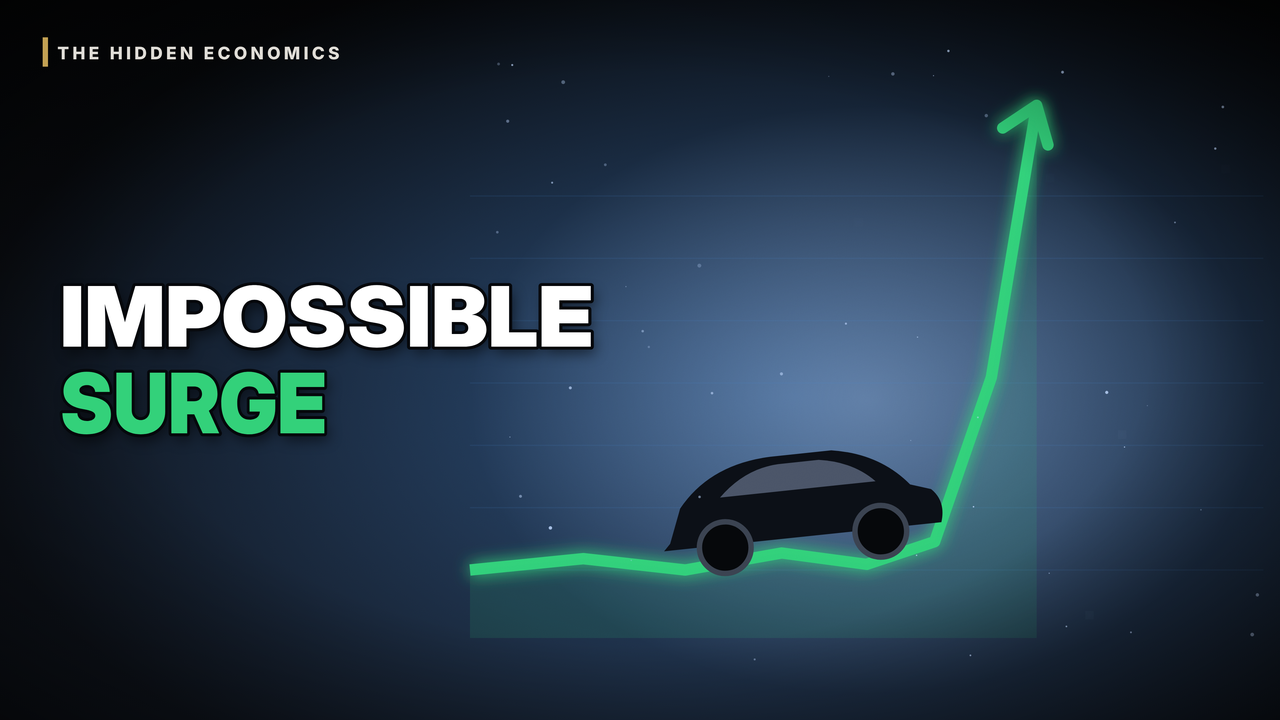
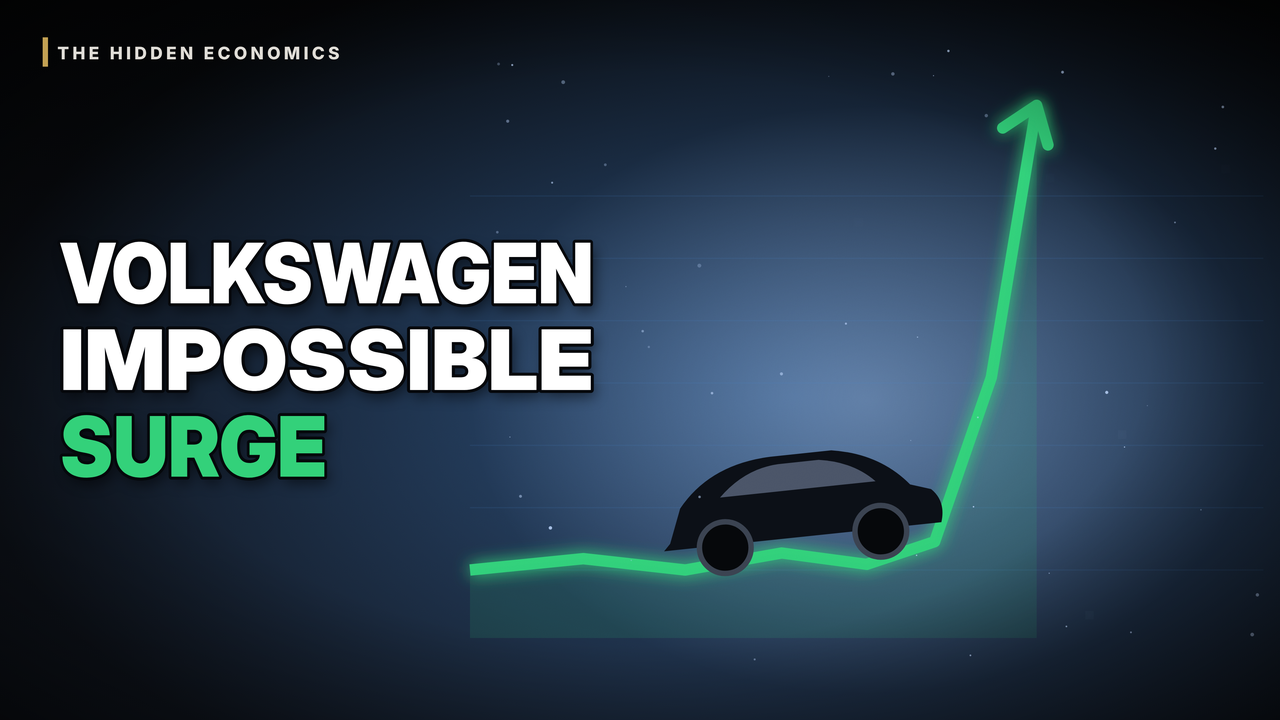
VW thumbnail names Volkswagen; generic hatchback subject
Claude-Session: https://claude.ai/code/session_014jUfN7raNXxtX19HjW58d3

Changed region(s): [[0.0312, 0.3361, 0.4688, 0.6722]]

diff --git a/remotion/src/thumbnails/CinematicThumb.tsx b/remotion/src/thumbnails/CinematicThumb.tsx
@@ -205,6 +205,16 @@ const SUBJECTS: Record<string, SubjectFn> = {
     {Array.from({length: 18}, (_, k) => <path key={k} d={`M 0 0 L ${Math.cos(k * 0.349) * 900} ${Math.sin(k * 0.349) * 900}`} stroke={P.accent} strokeOpacity={0.12} strokeWidth={60} />)}
     <text x={0} y={190} textAnchor="middle" fontFamily={FONT} fontWeight={900} fontSize={o.size ?? 560} fill="url(#bng)" stroke="#2A1A00" strokeWidth={18} paintOrder="stroke" filter="url(#glow)">{o.label || '#1'}</text>
   </g>,
+  /** A generic compact hatchback, side view, rim-lit (no real model's design, no badge). */
+  hatch: (o, P) => <g transform={`translate(${o.x} ${o.y}) scale(${o.s * (o.flip ? -1 : 1)} ${o.s})`}>
+    <defs><linearGradient id="hb" x1="0" y1="0" x2="0" y2="1"><stop offset="0" stopColor={o.body || '#C9D2DE'} /><stop offset="1" stopColor="#3A4250" /></linearGradient></defs>
+    <ellipse cx={0} cy={118} rx={420} ry={26} fill="#000" opacity={0.6} />
+    <path d="M -400 80 L -390 20 Q -380 -10 -330 -20 L -170 -40 L -60 -150 Q -30 -170 20 -170 L 210 -170 Q 260 -168 290 -120 L 360 -30 Q 400 -20 405 20 L 410 80 Q 410 96 390 96 L -385 96 Q -402 96 -400 80 Z" fill="url(#hb)" stroke={P.key} strokeWidth={5} />
+    <path d="M -40 -140 L 40 -150 L 40 -50 L -150 -40 Z M 70 -152 L 200 -152 Q 240 -150 262 -112 L 300 -48 L 70 -48 Z" fill="#0B1220" opacity={0.92} />
+    <path d="M -380 0 L 400 -10" stroke={P.key} strokeWidth={4} opacity={0.6} />
+    {[-250, 250].map((x) => <g key={x}><circle cx={x} cy={90} r={70} fill="#05070A" stroke="#2C323D" strokeWidth={12} /><circle cx={x} cy={90} r={30} fill="#9AA6B8" /></g>)}
+    <path d="M 380 0 l 26 4 l -4 22 l -28 -6 Z" fill="#FFE7A0" filter="url(#glow)" />
+  </g>,
   /** A crashing line (consequence) */
   crash: (o, P) => <g transform={`translate(${o.x} ${o.y}) scale(${o.s})`}>
     {Array.from({length: 7}, (_, k) => <path key={k} d={`M -700 ${-k * 110 + 300} L 700 ${-k * 110 + 300}`} stroke={P.haze} strokeOpacity={0.12} strokeWidth={2} />)}

diff --git a/docs/thumbnails/REPORT.md b/docs/thumbnails/REPORT.md
@@ -5,7 +5,7 @@
 - New thumbnails generated (default + alternative): **13**
 - Passed automated QC: **13**; every one still needs a human look (subject, tone, spelling, not misleading)
 - Documentary deliverables without a brief (older cuts of the same story): `how-nvidia-took-over-the-ai-economy:documentary`, `why-switzerland-is-so-rich:pilot_horizontal`
-- Missing package metadata (title/description/tags): the-day-volkswagen-became-the-most-valuable-company, the-hidden-business-of-formula-1
+- Missing package metadata (title/description/tags): the-hidden-business-of-formula-1
 - Failed generation attempts: 0
 - Image generation: none used. Backend `svg-composite` (original vector art rendered locally with Remotion), cost US$0.00. No AI image service is configured for thumbnails and the channel rule is free/open tools only.
 
@@ -17,7 +17,7 @@
 | From Video Games to AI: How Nvidia Became a $5 Trillion Company | A | pass | 0.691 / 0.618 | ready | `docs/episodes/06-nvidia/youtube-package/` |
 | The $2 Billion That Never Existed | B | pass | 0.69 / 0.702 | ready | `docs/episodes/12-wirecard/youtube-package/` |
 | The Cables at the Bottom of the Ocean That Carry the Internet | A | pass | 0.733 / 0.582 | ready | `docs/episodes/09-cables/youtube-package/` |
-| The Day Volkswagen Became the World's Most Valuable Company | B | pass | 0.817 / 0.867 | in production | `docs/episodes/13-volkswagen/youtube-package/` |
+| The Day Volkswagen Became the World's Most Valuable Company | D | pass | 0.798 / 0.74 / 0.843 / 0.776 | ready | `docs/episodes/13-volkswagen/youtube-package/` |
 | Who Really Makes Money From Formula 1? | B | pass | 0.72 / 0.634 | not ready | `docs/episodes/03-formula1/youtube-package/` |
 | The Tiny Island Getting Rich From AI | A | pass | 0.728 / 0.694 | ready | `docs/episodes/10-anguilla/youtube-package/` |
 | The $250 Million Machine Every Advanced Chip Depends On | A | pass | 0.719 / 0.794 | ready | `docs/episodes/08-asml/youtube-package/` |
